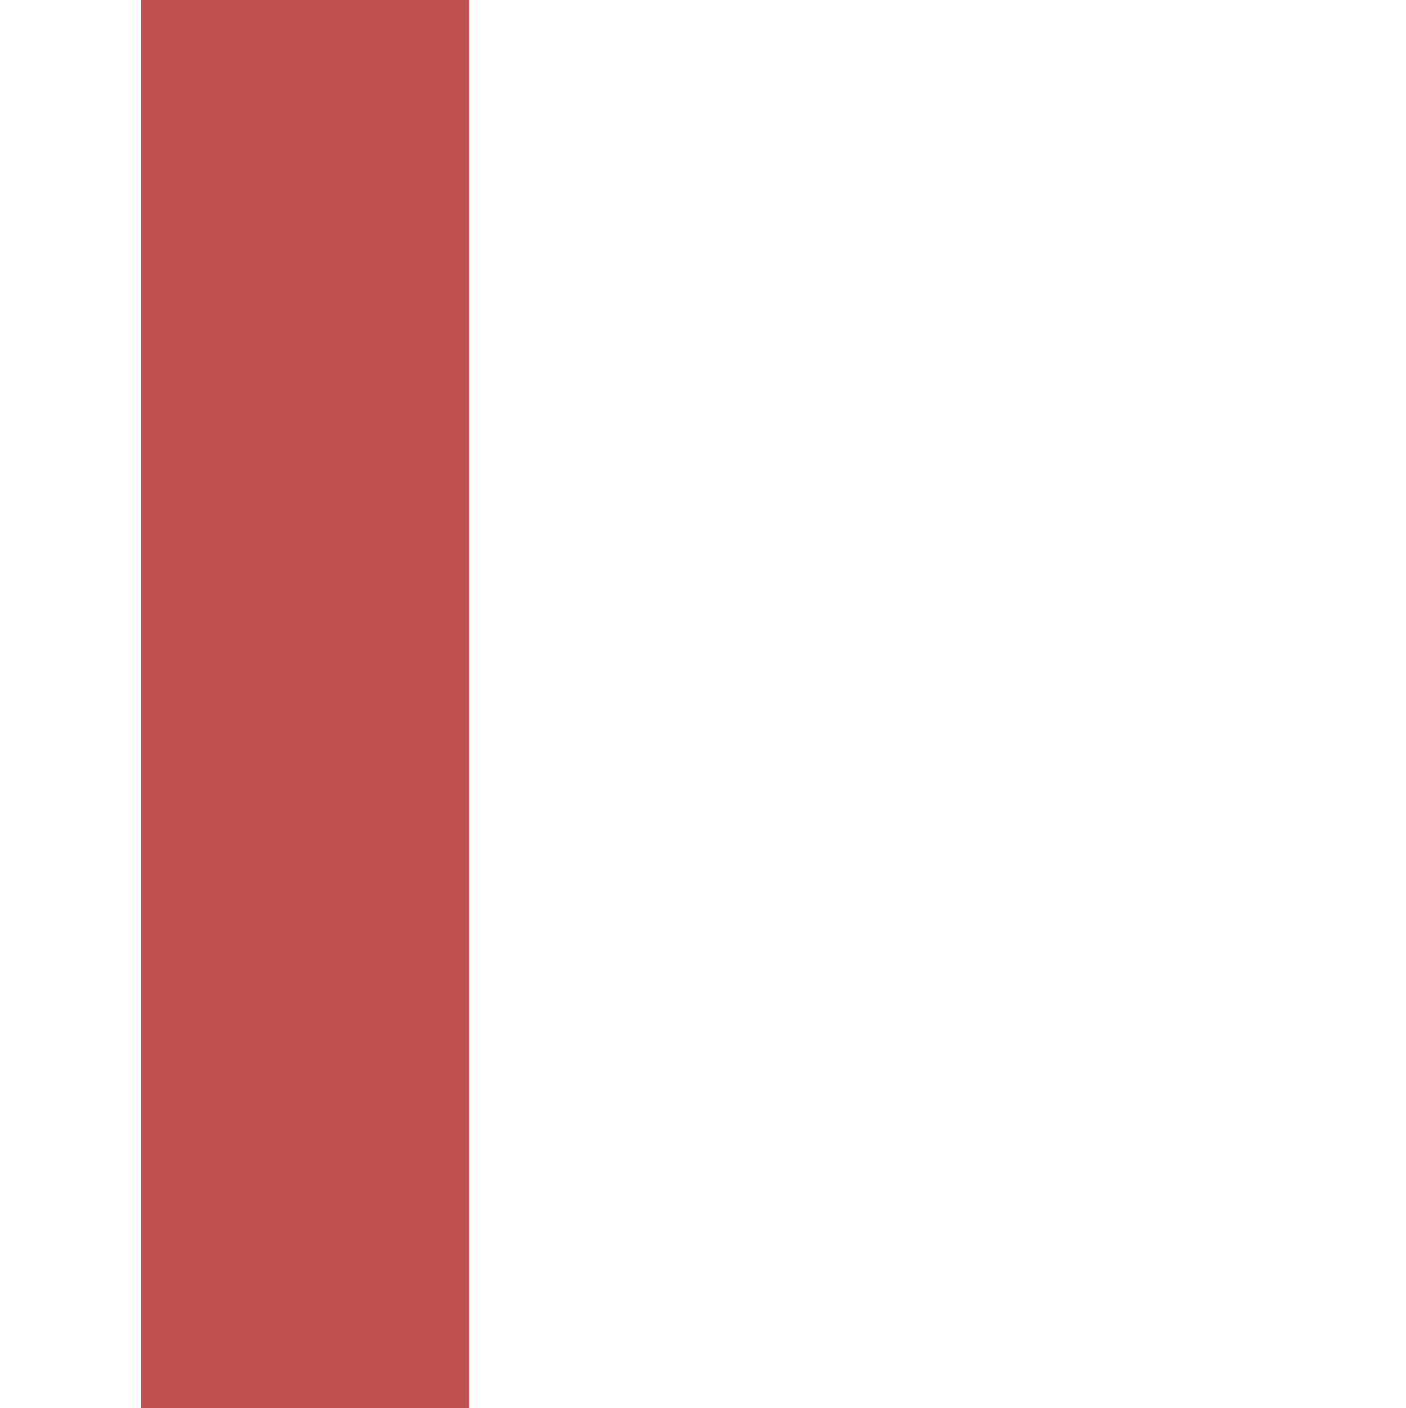
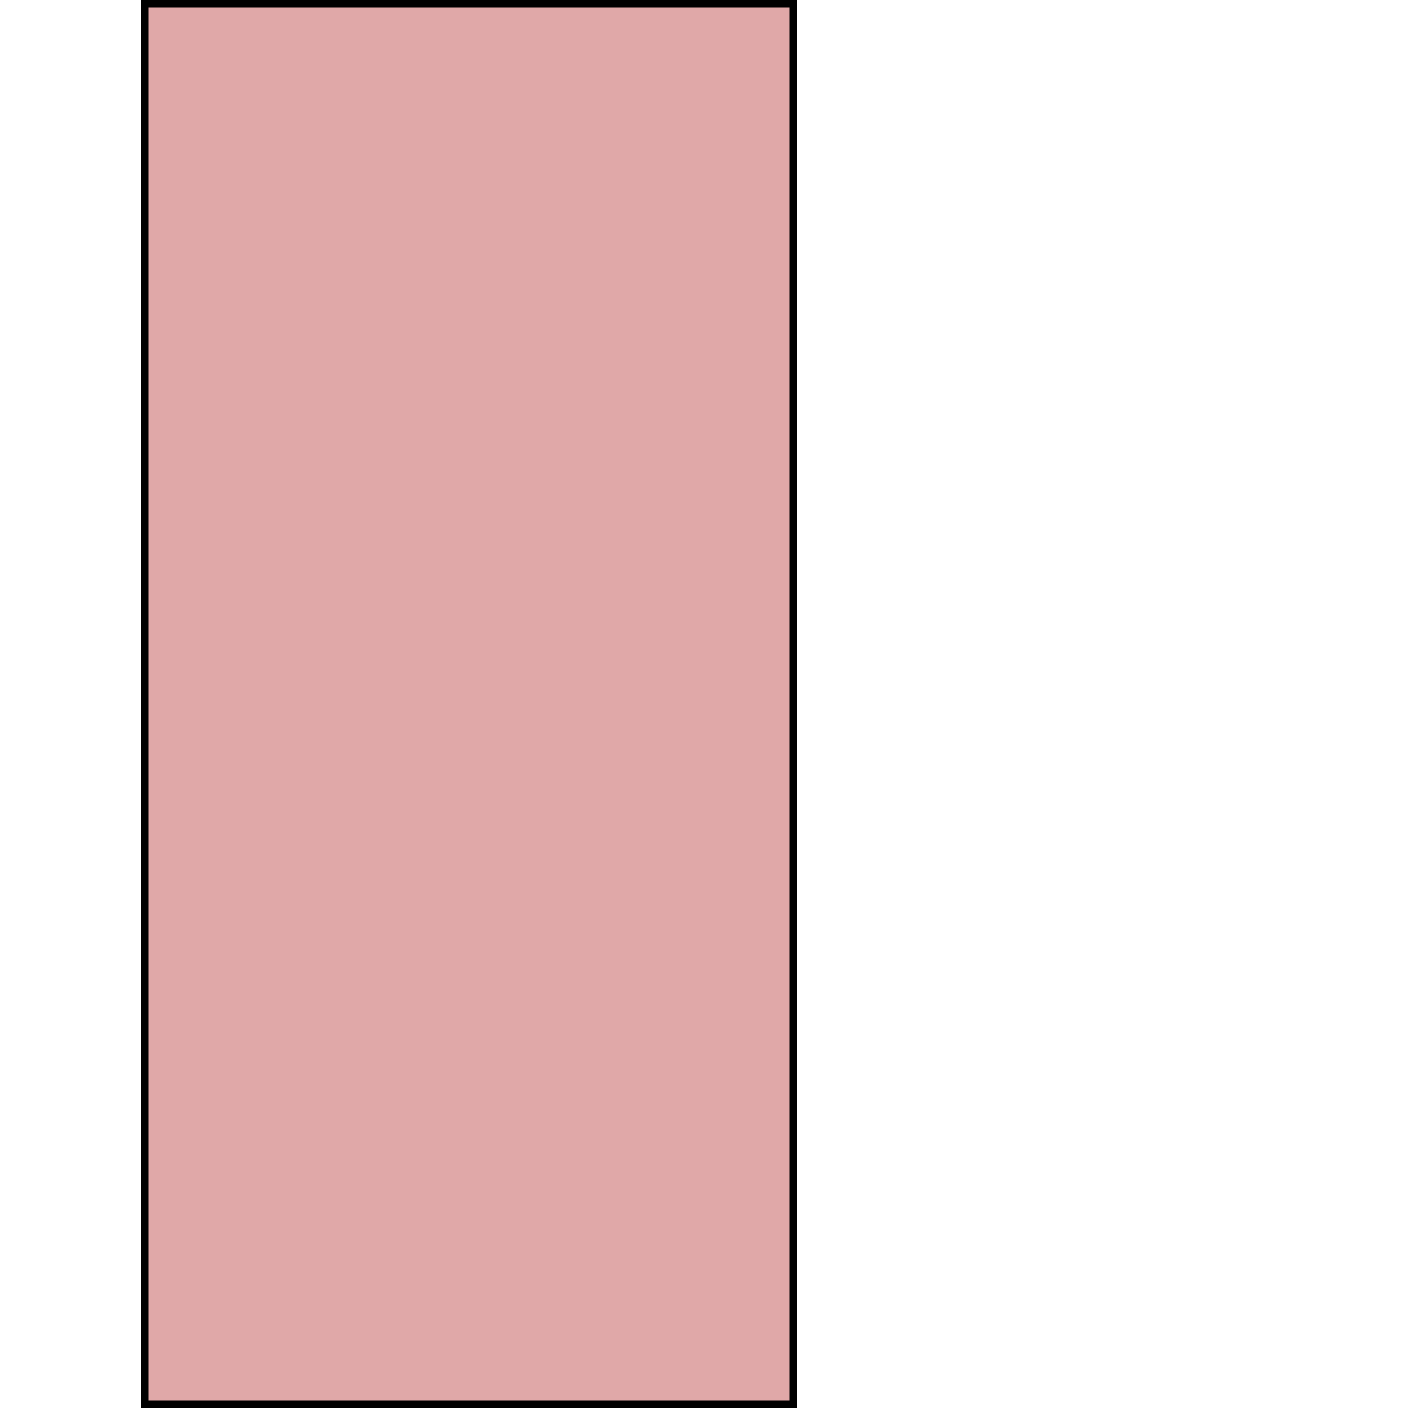
Better highlight with button to hide/show

diff --git a/app/assets/stylesheets/main.css.scss b/app/assets/stylesheets/main.css.scss
@@ -104,7 +104,6 @@ header {
     position: absolute;
     top:0;
     left:0;
-    opacity: 0.2;
   }
   .image-underlay
   {
